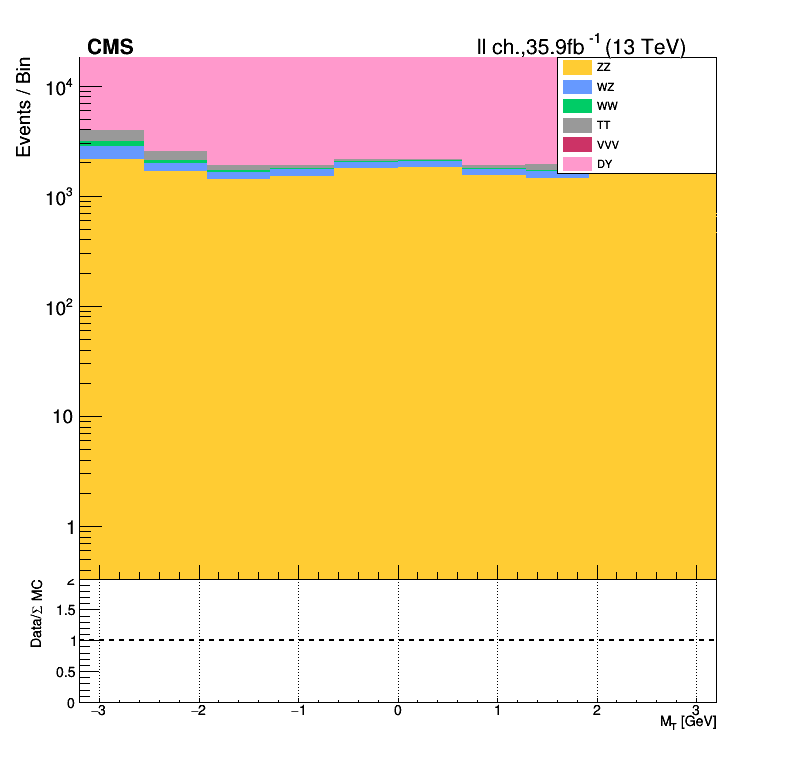
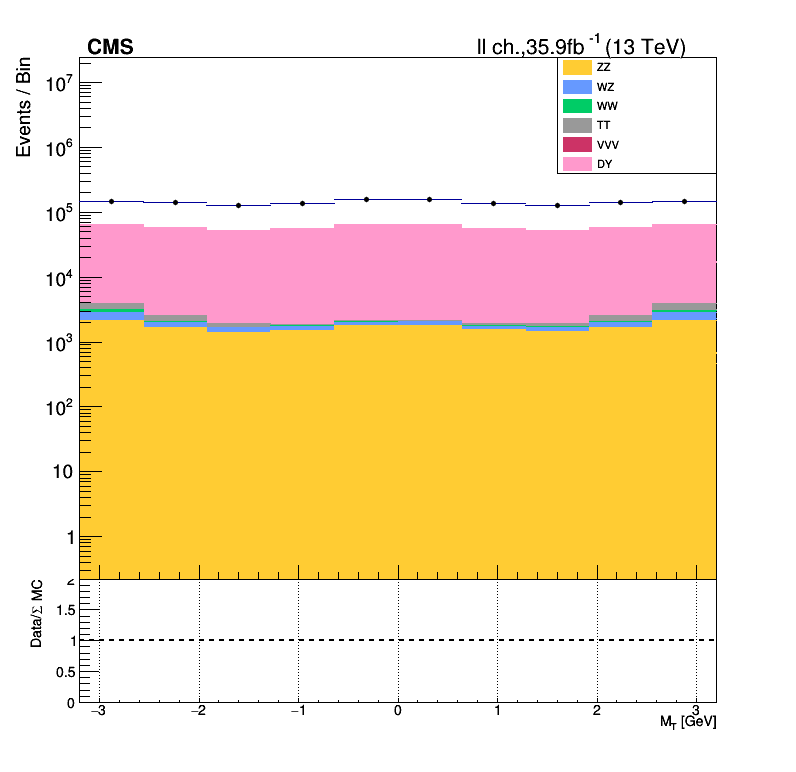
Adding last changes 	modified:   plotter/datasets_2017.yaml 	modified:   plotter/era_plotter.py 	modified:   plotter/xsections_2017.yaml 	modified:   plotter/xsections_2018.yaml

diff --git a/plotter/era_plotter.py b/plotter/era_plotter.py
@@ -64,9 +64,9 @@ Var_Dict = [
         #{'variable':'delta_phi_j_met',               'nBins':32,             'xLow':-3.2,               'xHi':3.2,        'title':'#Delta#phi(Jet,p_{T}^{miss})'},
         #{'variable':'met_phi',               'nBins':32,             'xLow':-3.2,               'xHi':3.2,        'title':'p_{T}^{miss} #phi'}
         #{'variable':'met_pt',                  'nBins':10,             'xLow':50,               'xHi':100,	'title':'p_{T}^{miss} [GeV]'}
-        {'variable':'delta_phi_ZMet',              'nBins':10,             'xAxis':np.linspace(-3.2, 3.2, num=11),     'title':'M_{T} [GeV]'},
+        #{'variable':'delta_phi_ZMet',              'nBins':10,             'xAxis':np.linspace(-3.2, 3.2, num=11),     'title':'#Delta #phi(Z,p_{T}^{miss})'},
         #{'variable':'MT',              'nBins':12,             'xAxis':ar.array('d', [50,100,125,150,175,200,250,300,350,400,500,600,800]),     'title':'M_{T} [GeV]'},
-        #{'variable':'met_pt',              'nBins':10,             'xAxis':ar.array('d', [50,55,60,65,70,75,80,85,90,95,100]),     'title':'p_{T}^{miss} [GeV]'},
+        {'variable':'met_pt',              'nBins':10,             'xAxis':ar.array('d', [50,55,60,65,70,75,80,85,90,95,100]),     'title':'p_{T}^{miss} [GeV]'},
 	#{'variable':'emulatedMET',              'nBins':11,             'xAxis':ar.array('d', [50,100,125,150,175,200,250,300,350,400,500,600]),     'title':'Emulated p_{T}^{miss} [GeV]'},
         #{'variable':'met_pt',              'nBins':11,             'xAxis':ar.array('d', [50,100,125,150,175,200,250,300,350,400,500,600]),     'title':'p_{T}^{miss} [GeV]'},
 	]
@@ -80,9 +80,9 @@ _nVars = len(Var_Dict)
 #NRB Control Region
 #_cuts = "((lep_category==2) && Z_pt>60 && Z_mass > 76 && Z_mass < 106 && ngood_jets < 2 && ngood_bjets == 0 && met_pt > 30 )"
 #DY Control Region
-#_cuts = "((lep_category==3 || lep_category==1) && Z_mass > 76 && Z_mass < 106 && Z_pt>60 && ngood_jets < 2 && ngood_bjets == 0 && met_pt<100 && met_pt > 50 && abs(MET_phi - Z_phi) > 2.6 && nhad_taus == 0 && abs(sca_balance) < 1.5 && abs(delta_phi_j_met) > 0.5 && delta_R_ll < 1.8)"
+_cuts = "((lep_category==3 || lep_category==1) && Z_mass > 76 && Z_mass < 106 && Z_pt>60 && ngood_jets < 2 && ngood_bjets == 0 && met_pt<100 && met_pt > 50 && abs(MET_phi - Z_phi) > 2.6 && nhad_taus == 0 && abs(sca_balance) < 1.5 && abs(delta_phi_j_met) > 0.5 && delta_R_ll < 1.8)"
 #Signal Lite
-_cuts = "((lep_category==3 || lep_category==1) && Z_mass > 76 && Z_mass < 106 && Z_pt>60 && ngood_jets < 2 && ngood_bjets == 0)"
+#_cuts = "((lep_category==3 || lep_category==1) && Z_mass > 76 && Z_mass < 106 && Z_pt>60 && ngood_jets < 2 && ngood_bjets == 0)"
 
 
 #_cuts = "((lep_category==3 || lep_category==1) && Z_mass > 76 && Z_mass < 106 && Z_pt>60 && ngood_jets < 2 && ngood_bjets == 0 && met_pt<100 && met_pt > 50 && abs(delta_phi_ZMet) > 2.6 && delta_R_ll < 1.8 && abs(delta_phi_j_met) > 0.5 && sca_balance > 0.5 && sca_balance < 1.5 && nhad_taus == 0 )"
@@ -207,7 +207,7 @@ def test(_variable,_nBins,_xAxis,title):
    p1.cd()
 
    stk.SetMinimum(1.0)
-   stk.SetMaximum(10000)
+   stk.SetMaximum(10000000)
    stk.SetTitle(" ;"+ title + ";Events / Bin")
    stk.Draw("hist")
    dat.SetMarkerStyle(20)
